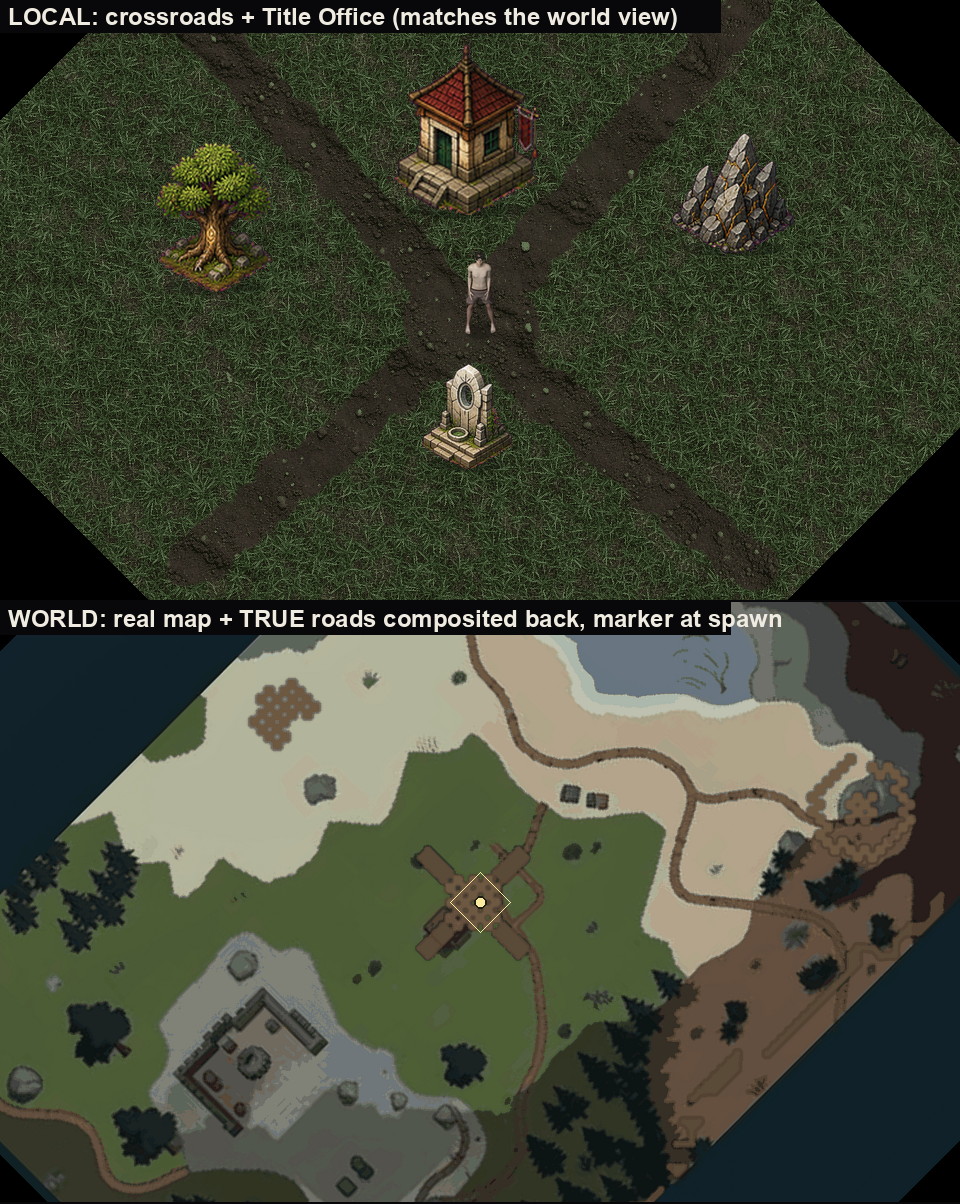
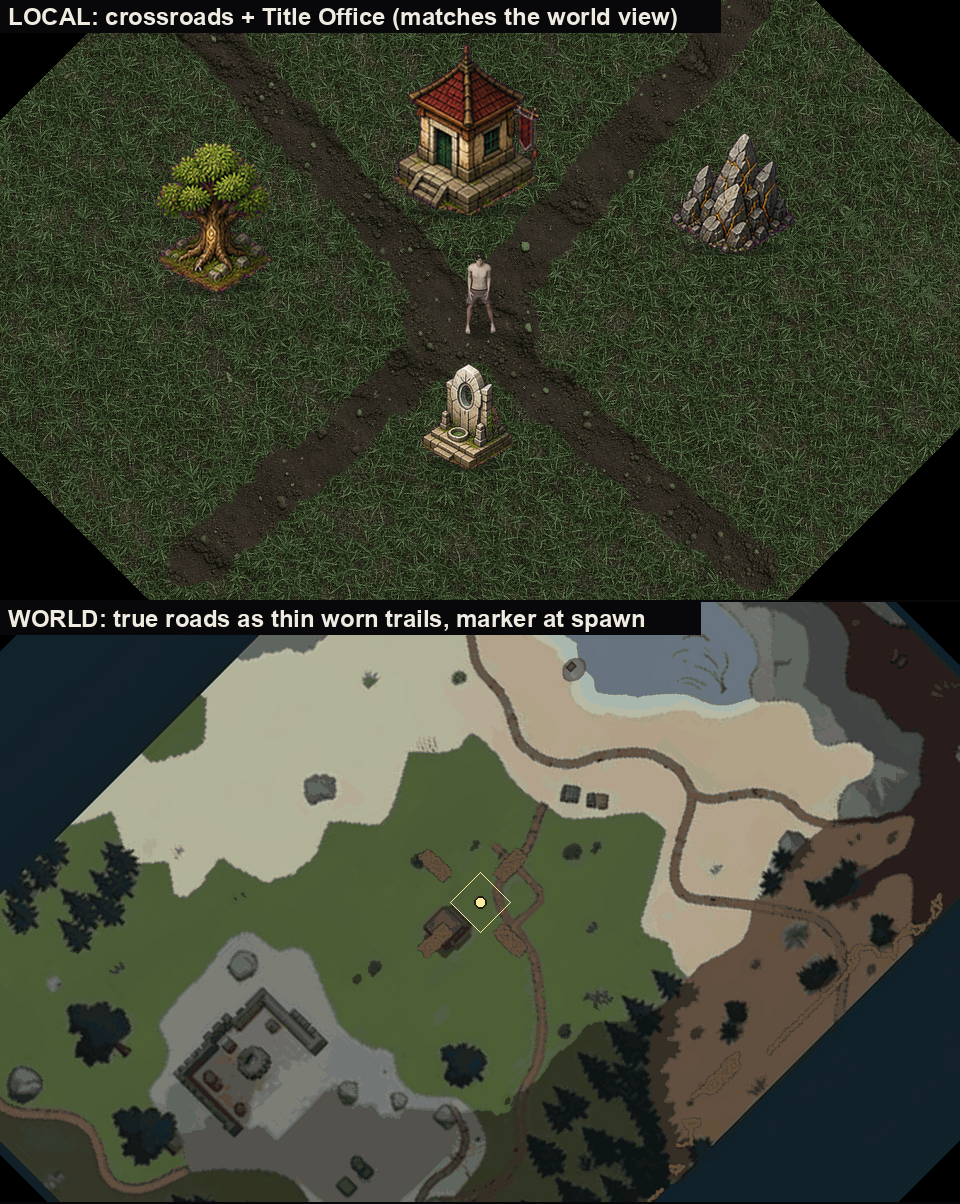
Worldgen: roads cross the map as wandering trails
Path pressure was gated to the settlement safe radius, so the entire
road network was four stubs at the plaza — invisible on the world map
and pointless to follow on foot. Road axes now wander with noise and
fade near map edges (roadReach), producing trails that actually lead
somewhere. Detail authority regenerated for the shifted zones; all
verifiers green, 141 tests pass.

Claude-Session: https://claude.ai/code/session_016WHJu5xCseYgrXDGJkfMzC

diff --git a/client/terrain-biome.js b/client/terrain-biome.js
@@ -12,14 +12,14 @@ export function biomeForTile(x, y, cols, rows, safeRadiusTiles, profile = defaul
   const centerDistance = Math.hypot(x + 0.5 - centerX, y + 0.5 - centerY);
   const settlementPressure = clamp(1 - centerDistance / Math.max(0.001, safeRadiusTiles * 0.58), 0, 1);
   const plazaPressure = clamp(1 - centerDistance / Math.max(0.001, safeRadiusTiles * 0.42), 0, 1);
-  const northSouthPathPressure =
-    centerDistance < safeRadiusTiles * 0.95
-      ? clamp(1 - Math.abs(x + 0.5 - centerX) / 0.95, 0, 1)
-      : 0;
-  const eastWestPathPressure =
-    centerDistance < safeRadiusTiles * 0.95
-      ? clamp(1 - Math.abs(y + 0.5 - centerY) / 0.9, 0, 1)
-      : 0;
+  // roads run the breadth of the map, wandering with noise so they read as
+  // worn trails rather than surveyed lines; pressure fades toward the far
+  // edges so trails peter out instead of slamming into the border
+  const nsAxis = centerX + noise2d(y * 0.09, 3, profile.seed + 601) * 3.4;
+  const ewAxis = centerY + noise2d(x * 0.09, 7, profile.seed + 653) * 3.0;
+  const roadReach = clamp(1.18 - centerDistance / (Math.min(cols, rows) * 0.62), 0, 1);
+  const northSouthPathPressure = clamp(1 - Math.abs(x + 0.5 - nsAxis) / 0.95, 0, 1) * roadReach;
+  const eastWestPathPressure = clamp(1 - Math.abs(y + 0.5 - ewAxis) / 0.9, 0, 1) * roadReach;
 
   const riverCenter =
     rows * 0.96 +